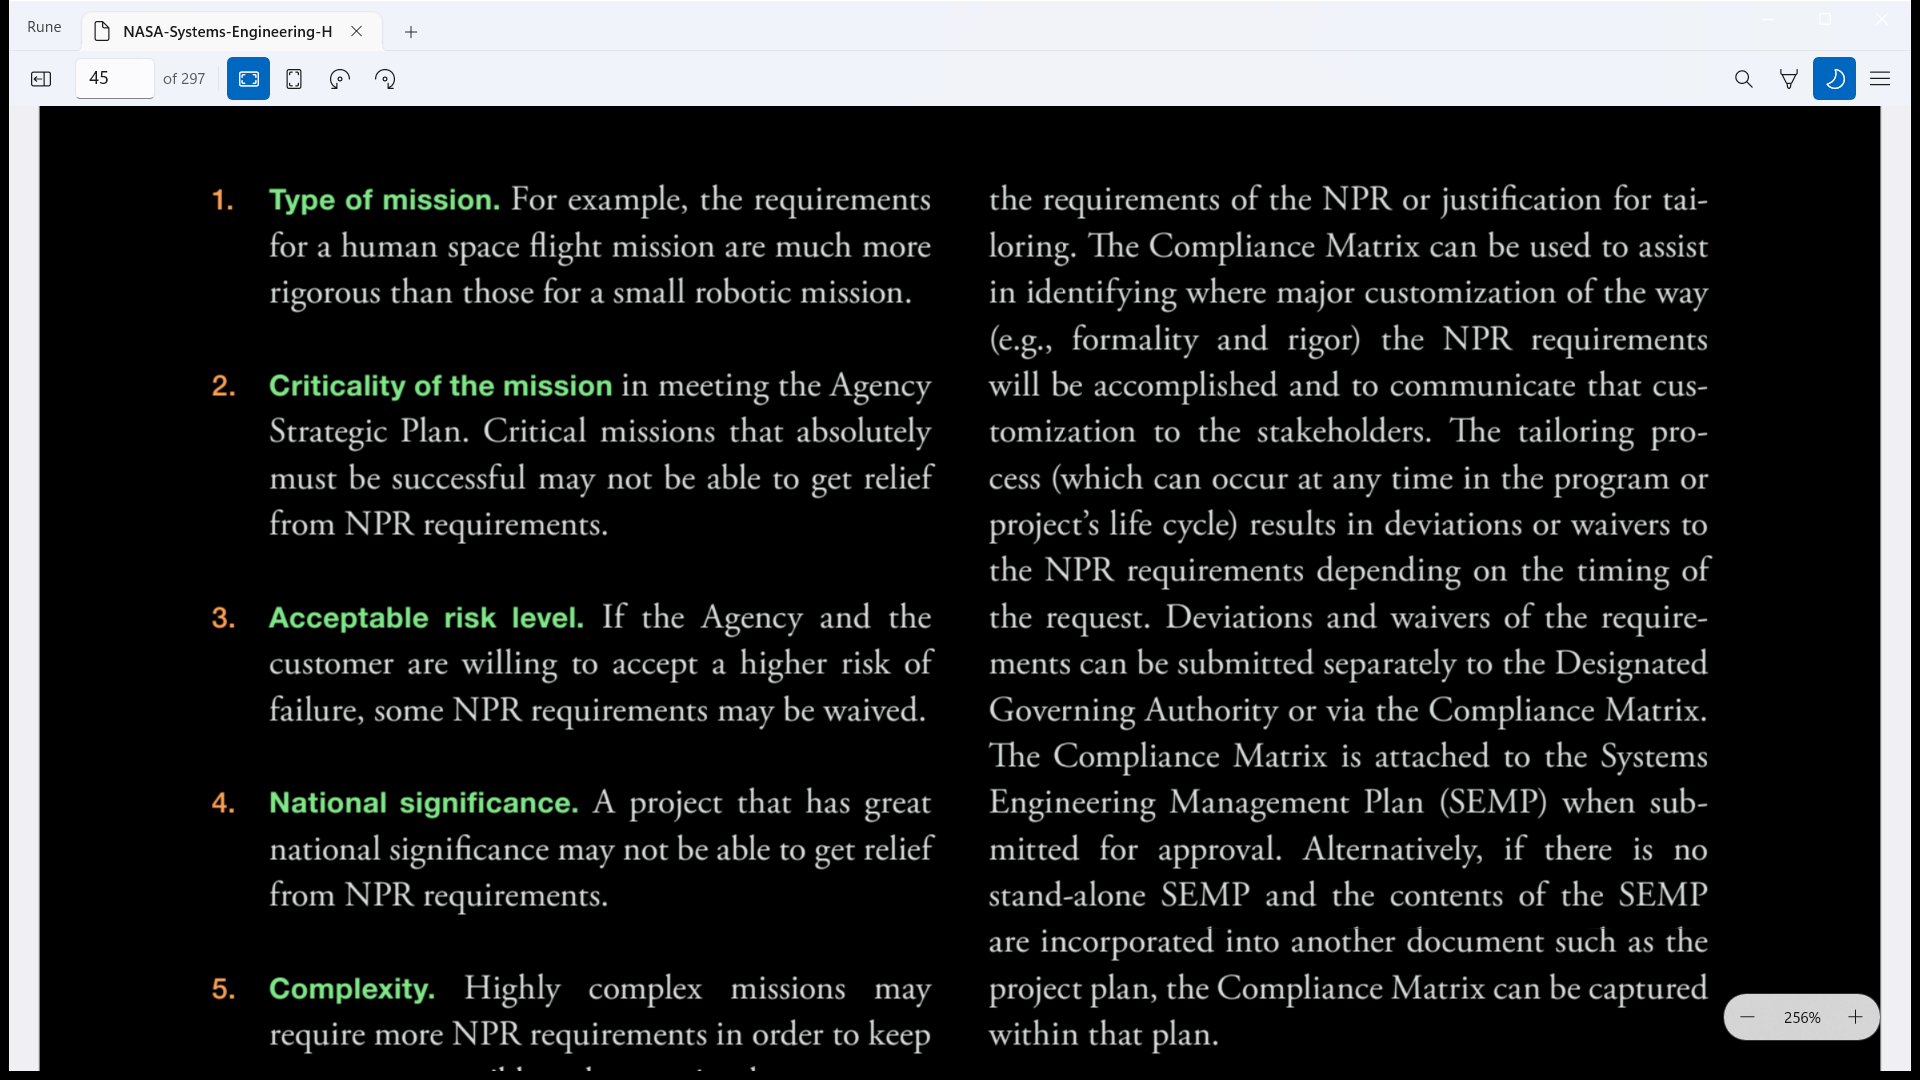
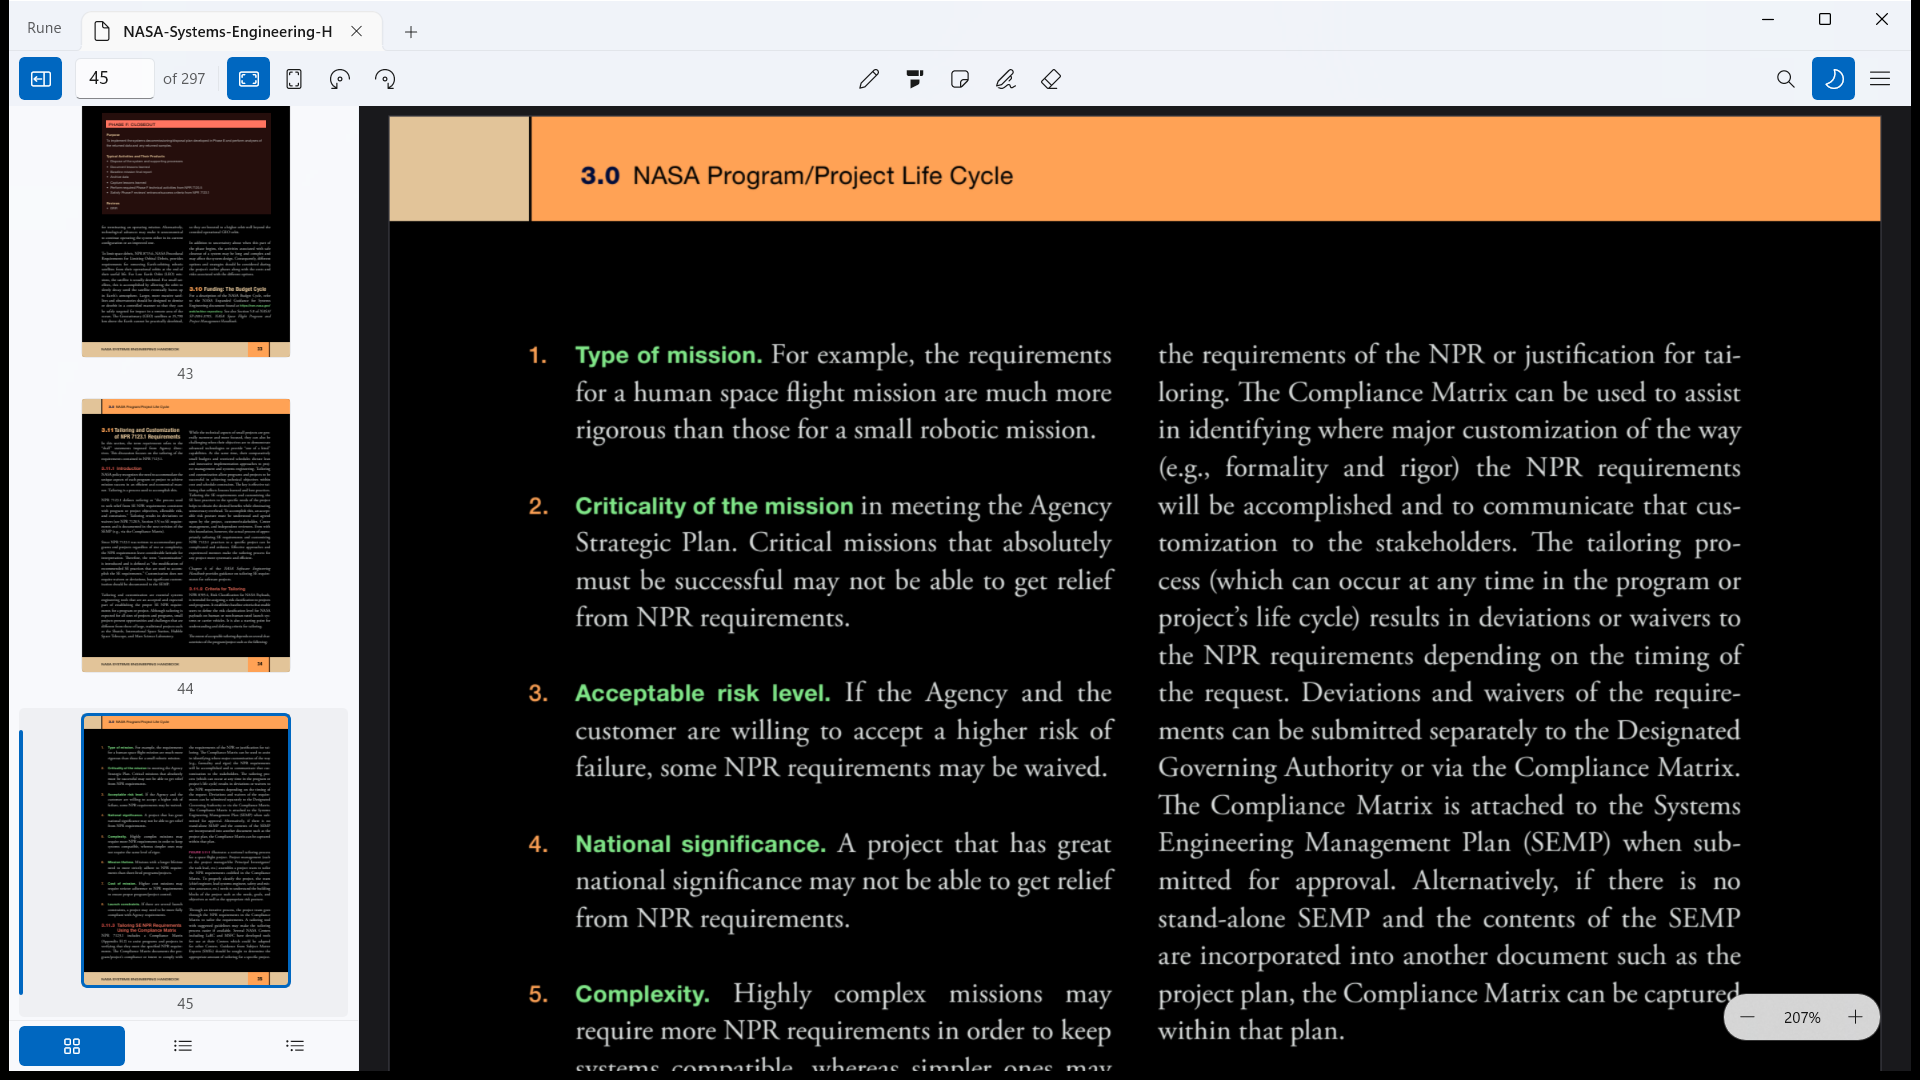
Re-shoot the Store screenshots against v0.5.0
Every previous shot showed the v0.4.1 header: no annotation toolbar, "Rune"
as a plain label rather than the Home button, and an options flyout that no
longer exists. None showed forms. Six replacements, all 1920x1080 on an empty
profile so no filename can leak into a commercially published image:

  01-reading-light      light mode, thumbnails sidebar
  02-night-mode         night mode, thumbnails inverted with the page
  03-chapters           the chapters pane
  04-annotation-toolbar the highlighter's colour/style/opacity panel
  05-form-filling       a field focused mid-typing
  06-presentation       fullscreen, one page

Three are still missing, recorded in the listing doc: the signature flow, the
page-editing sidebar, and the shortcuts overlay. The last is blocked rather
than merely unshot - the overlay's right-hand column has its key chips
clipped at the dialog edge, so it cannot go on the listing until that is
fixed.

diff --git a/docs/store-listing.md b/docs/store-listing.md
@@ -147,16 +147,21 @@ invalidate this justification and the privacy declaration together.
 ## Screenshots
 
 Store requires at least one 1366×768 or larger desktop screenshot; up to 10.
-Recommended set, in this order:
+The current set in `docs/store-screenshots/`, shot against v0.5.0 at 1920×1080:
 
-1. A document open in light mode, sidebar showing thumbnails — the everyday view
-2. Night mode on the same document
-3. A form being filled in, with a field focused
-4. The annotation pen panel open, with a highlight visible on the page
-5. The page-editing sidebar with several pages selected
-6. Presentation mode (F5), fullscreen
-7. The keyboard shortcuts overlay (F1)
-8. The recent-documents start page
+1. `01-reading-light` — light mode, thumbnails sidebar, the everyday view
+2. `02-night-mode` — night mode on the same page (thumbnails invert too)
+3. `03-chapters` — the chapters/TOC pane
+4. `04-annotation-toolbar` — the highlighter's colour/style/opacity panel
+5. `05-form-filling` — a form field focused mid-typing
+6. `06-presentation` — presentation mode (F5), fullscreen
 
-Capture at 1920×1080, windowed (not maximized over a busy desktop), with a
-neutral document — avoid anything containing personal data.
+Still to shoot: the **signature flow** (draw/place), the **page-editing
+sidebar** with pages selected, and the **shortcuts overlay** — the last is
+blocked on a layout bug (the right-hand column's key chips are clipped at the
+dialog edge), so it must not be published until that is fixed.
+
+Capture at 1920×1080 with `PrintWindow(PW_RENDERFULLCONTENT)` (PROJECT.md §7),
+windowed, using a licence-safe document. **Shoot on an empty Rune profile** —
+the tab strip and recents grid otherwise leak real filenames into a
+commercially published image.
